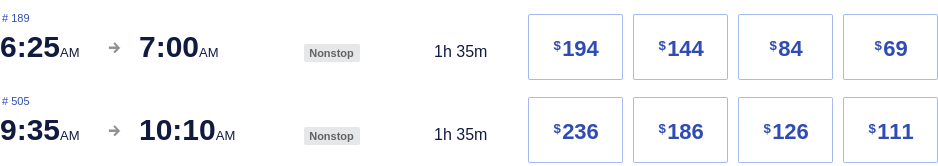
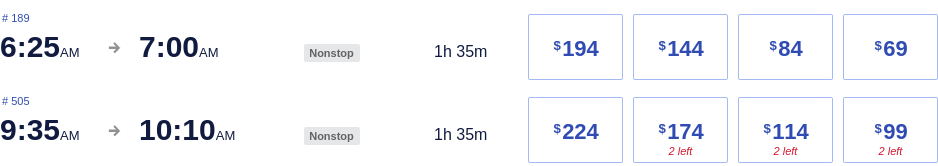
Latest scraping states: Sat Aug 26 10:52:26 UTC 2023

diff --git a/scrapes/states/southwest-01-05.md b/scrapes/states/southwest-01-05.md
@@ -20,7 +20,9 @@
     
     1h 35m
     
-    111 Dollars$111
+    99 Dollars$99
+    
+    2 left
     
 
 ![](southwest-01-05.png)
